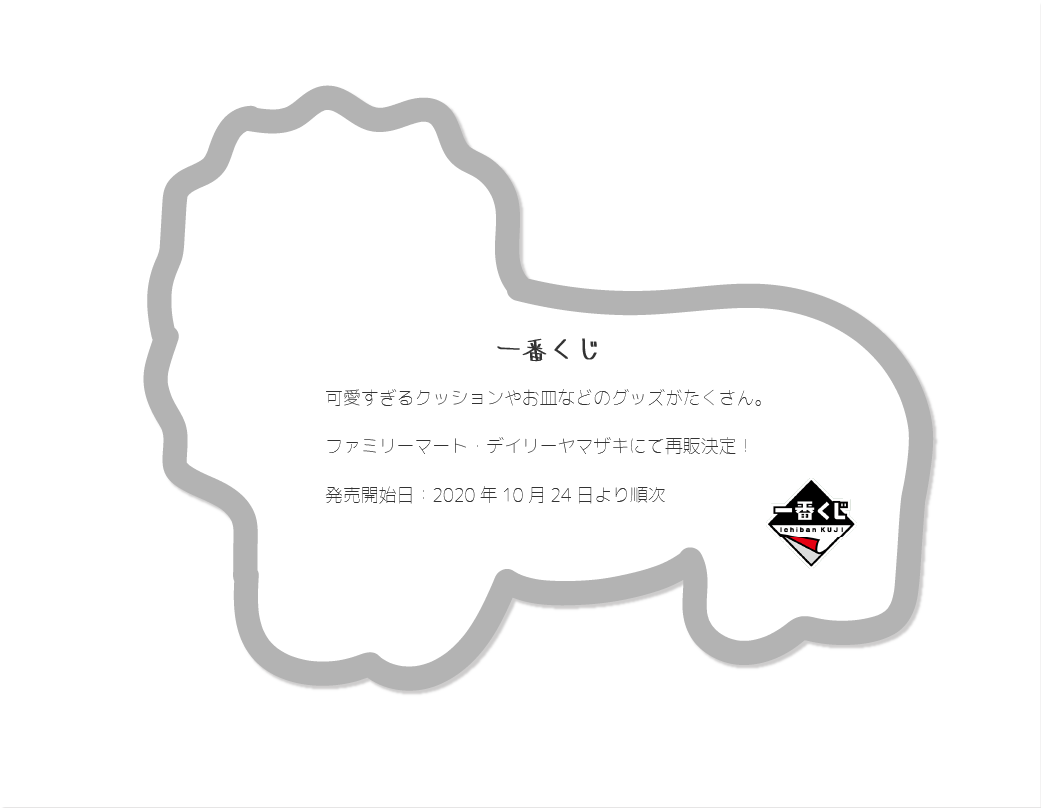
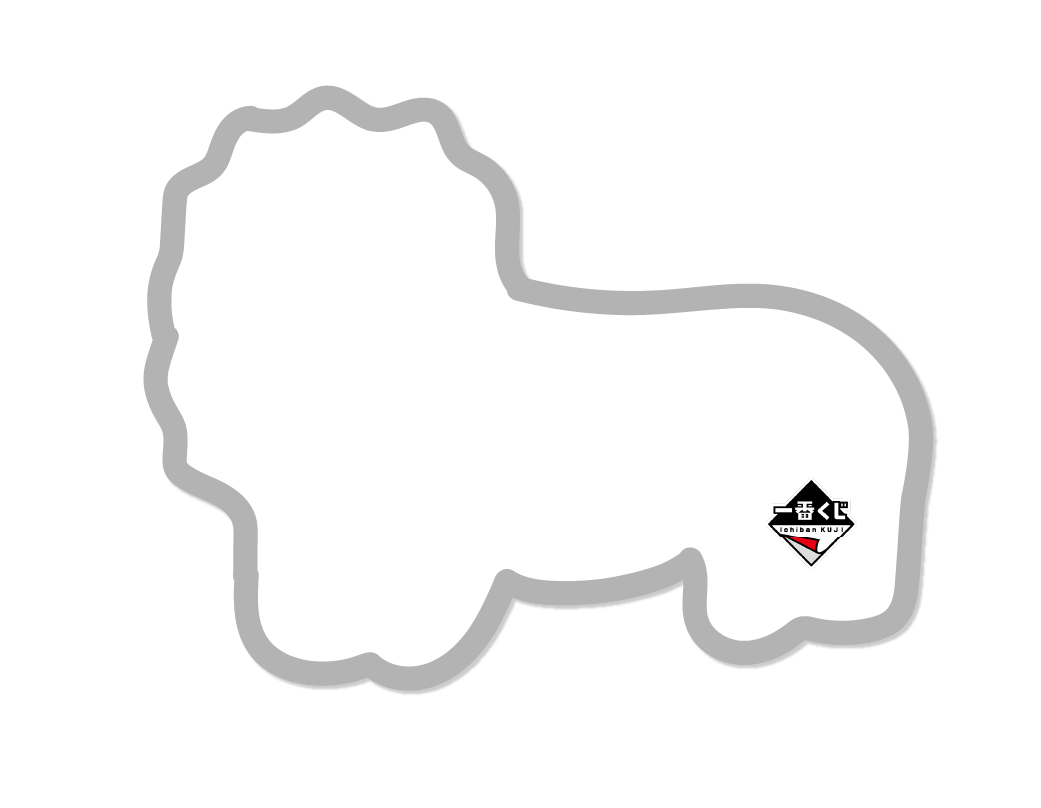
グッズのところ修正。
何故かリンクが別タブで開かない

diff --git a/index.html b/index.html
@@ -215,7 +215,15 @@
                         <div class="popup">
                             <label for="popup-on" class="icon-close"></label>
                             <div class="popup-content">
-                                <img src="images/villege_goods.png" alt="" class="layer-img">
+                                <h4 class="goods-title" id="inu-title">ビレッジバンガードコラボ商品</h4>
+                                <p class="goods-text" id="inu-text">可愛すぎるポーチやT-シャツなど数多くのコラボ商品<br>
+                                    が発売。<br><br>
+
+                                    シャクレルプラネットとのコラボ商品も見どころ。<br><br>
+
+                                    発売開始日：2020年</p>
+                                    <a class="button" href="https://www.village-v.co.jp/news/item/6600"　target="_blank"　rel="noopener noreferrer">公式サイト</a>
+                                <img class="goods-img" src="images/villege_goods.png" alt="" class="layer-img">
                             </div>
                         </div>
                     </label>
@@ -228,6 +236,13 @@
                         <div class="popup">
                             <label for="popup-on-lion" class="icon-close"></label>
                             <div class="popup-content">
+                                <h4 class="goods-title">一番くじ</h4>
+                                <p class="goods-text">可愛すぎるクッションやお皿などのグッズがたくさん。<br><br>
+
+                                    ファミリーマート・デイリーヤマザキにて再販決定！<br><br>
+
+                                    発売開始日：2020年10月24日より順次</p>
+                                    <a class="button" id="button-kuji" href="https://bpnavi.jp/s/kuji/pc/medias/show_by_key/ginbis2"　target="_blank"　rel="noopener noreferrer">公式サイト</a>
                                 <img src="images/kuji_goos.png" alt="" class="layer-img">
                             </div>
                         </div>
@@ -243,6 +258,12 @@
                         <div class="popup">
                             <label for="popup-on-koumori" class="icon-close"></label>
                             <div class="popup-content">
+                                <h4 class="goods-title">アミューズメント</h4>
+                                <p class="goods-text">数々の可愛いグッズがUFOキャッチャーに登場！<br><br>
+
+                                    詳しい発売日、設置場所は公式サイトをチェック！<br><br>
+                                </p>
+                                <a class="button" id="button-game" href="http://charatoru.skj.jp/chara/201/"　target="_blank"　rel="noopener noreferrer">公式サイト</a>
                                 <img src="images/game_goods.png" alt="" class="layer-img">
                             </div>
                         </div>
@@ -258,6 +279,14 @@
                         <div class="popup">
                             <label for="popup-on-ahiru" class="icon-close"></label>
                             <div class="popup-content">
+                                <h4 class="goods-title" id="dd-title">DEAN &amp; DELUCA コラボ商品</h4>
+                                <p class="goods-text" id="dd-text">発売40周年を迎えたたべっ子どうぶつとDEAN &amp; DELUCA<br>
+                                    のコラボ商品。<br><br>
+
+                                    シンプルな大人なデザインも見どころ。<br><br>
+
+                                    発売開始日：2020年10月（現在欠品）</p>
+                                    <a class="button" id="button-dd" href="https://store.deandeluca.co.jp/4901588130201.html"　target="_blank"　rel="noopener noreferrer">公式サイト</a>
                                 <img src="images/dd_goods.png" alt="" class="layer-img">
                             </div>
                         </div>
@@ -271,6 +300,9 @@
                         <div class="popup">
                             <label for="popup-on-ushi" class="icon-close"></label>
                             <div class="popup-content">
+                               <h4 class="goods-title" id="ushi-title">Coming soon...</h4>
+                               <p class="goods-text" id="ushi-text">随時更新。</p>
+                               
                                 <img src="images/next_goods.png" alt="" class="layer-img">
                             </div>
                         </div>

diff --git a/css/style.css b/css/style.css
@@ -383,17 +383,24 @@ button.seemore:hover::after {
 .flexLine {
     display: inline-flex;
     margin: 0 auto;
-
 }
 
 * {
     box-sizing: border-box;
 }
 
+#goods img {
+    filter: drop-shadow(5px 5px 5px rgba(0, 0, 0, 0.1));
+}
+.pop-box {
+    margin: 0 auto;
+}
+.pop-box img {
+    text-align: center;
+}
 /* ポップアップウインドウの設定 */
 .popup {
-    /*    background-color: #efefef;*/
-    /*        box-shadow: 0 0 0 9999px rgba(0, 0, 0, .8);*/
+    background: rgba(255, 255, 255, 0.5);
     display: none;
     position: fixed;
     top: 0;
@@ -404,9 +411,106 @@ button.seemore:hover::after {
     width: 100%;
     height: 100%;
     border: none;
-
-
 }
+
+.goods-title {
+    font-family: "mushin";
+    font-size: 25px;
+    position: absolute;
+    top: 33%;
+    left: 50%;
+    transform: translateY(-50%) translateX(-50%);
+    -webkit- transform: translateY(-50%) translateX(-50%);
+    z-index: 1000;
+    text-align: center;
+}
+.goods-text {
+    position: absolute;
+    top: 45%;
+    left: 50%;
+    transform: translateY(-50%) translateX(-50%);
+    -webkit- transform: translateY(-50%) translateX(-50%);
+    z-index: 1000;
+    
+}
+.goods-img {
+    position: relative;
+}
+
+#inu-title {
+    left: 52%;
+}
+
+#inu-text {
+    left: 52%;
+}
+
+#dd-title {
+    top: 38%;
+    left: 50%;
+}
+
+#dd-text {
+    top: 50%;
+    left: 50%;
+}
+
+#ushi-title {
+    left: 53%;
+}
+#ushi-text {
+    top:44%;
+    left: 53%;
+}
+/*公式サイトに飛ぶボタン*/
+.button {
+    display: block;
+    text-align: center;
+    font-size: 18px;
+    font-family: "gokuboso";
+    color: #333;
+    text-decoration: none;
+    background-color: white;
+    max-width: 160px;
+    border: 1px solid #B3B3B3;
+    border-radius: 3px;
+    padding: 10px 20px;
+    margin: 0 auto;
+    z-index: 1000;
+    position: absolute;
+    top: 54%;
+    left: 48%;
+}
+
+.button:hover {
+    display: block;
+    text-align: center;
+    font-size: 18px;
+    font-family: "gokuboso";
+    color: white;
+    text-decoration: none;
+    background-color: rgb(192, 138, 75);
+    max-width: 160px;
+    border: 1px solid #B3B3B3;
+    border-radius: 3px;
+    padding: 10px 20px;
+    margin: 0 auto;
+    /*    ボワッと出す*/
+    transition: 0.5s;
+    box-shadow: 2px 2px 1px rgba(0, 0, 0, 0.1);
+}
+#button-kuji {
+    left: 46.5%;
+}
+#button-game {
+    left: 46%;
+}
+
+#button-dd {
+    top:63%;
+    left: 47%;
+}
+
 
 /*ビレバン*/
 /* チェックボックスの初期設定 */
@@ -417,7 +521,9 @@ button.seemore:hover::after {
 /* チェックされたらポップアップウインドウを開く */
 #popup-on:checked + .popup {
     display: block;
+    z-index: 999;
 }
+
 
 /*くじ*/
 #popup-on-lion {
@@ -426,6 +532,7 @@ button.seemore:hover::after {
 
 #popup-on-lion:checked + .popup {
     display: block;
+    z-index: 999;
 }
 
 /*アミューズメント*/
@@ -435,6 +542,7 @@ button.seemore:hover::after {
 
 #popup-on-koumori:checked + .popup {
     display: block;
+    z-index: 999;
 }
 
 /*DD*/
@@ -444,6 +552,7 @@ button.seemore:hover::after {
 
 #popup-on-ahiru:checked + .popup {
     display: block;
+    z-index: 999;
 }
 
 /*coming  soon*/
@@ -453,35 +562,8 @@ button.seemore:hover::after {
 
 #popup-on-ushi:checked + .popup {
     display: block;
+    z-index: 999;
 }
-
-
-/* 閉じるアイコン（右上） */
-/*
-.icon-close {
-    background: white;
-    color: #b3b3b3;
-    font-size: 30px;
-    padding: 0 10px;
-    position: absolute;
-    right: 0;
-}
-*/
-
-/* 閉じるボタン */
-/*
-.btn-close {
-    background: #b3b3b3;
-    border-radius: 10px;
-    color: white;
-    font-family: "gokuboso";
-    padding: 10px;
-    cursor: pointer;
-    margin: 10px auto;
-    width: 30%;
-    text-align: center;
-}
-*/
 
 /* 開くボタン */
 .btn-open {
